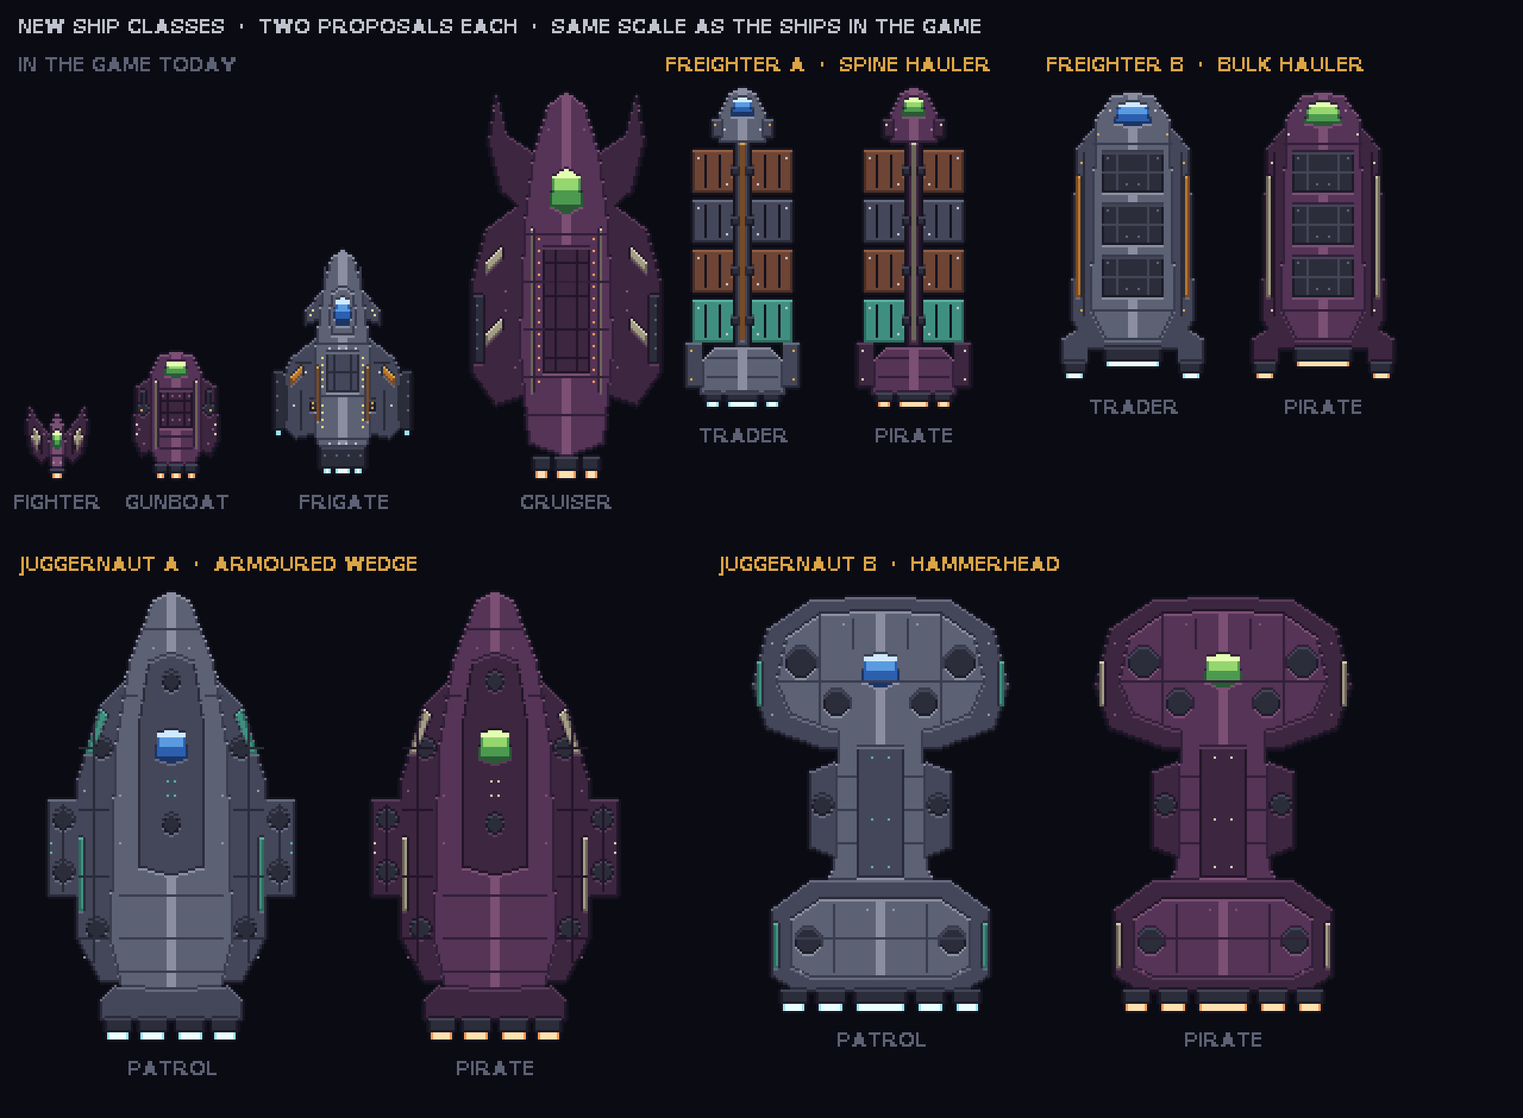
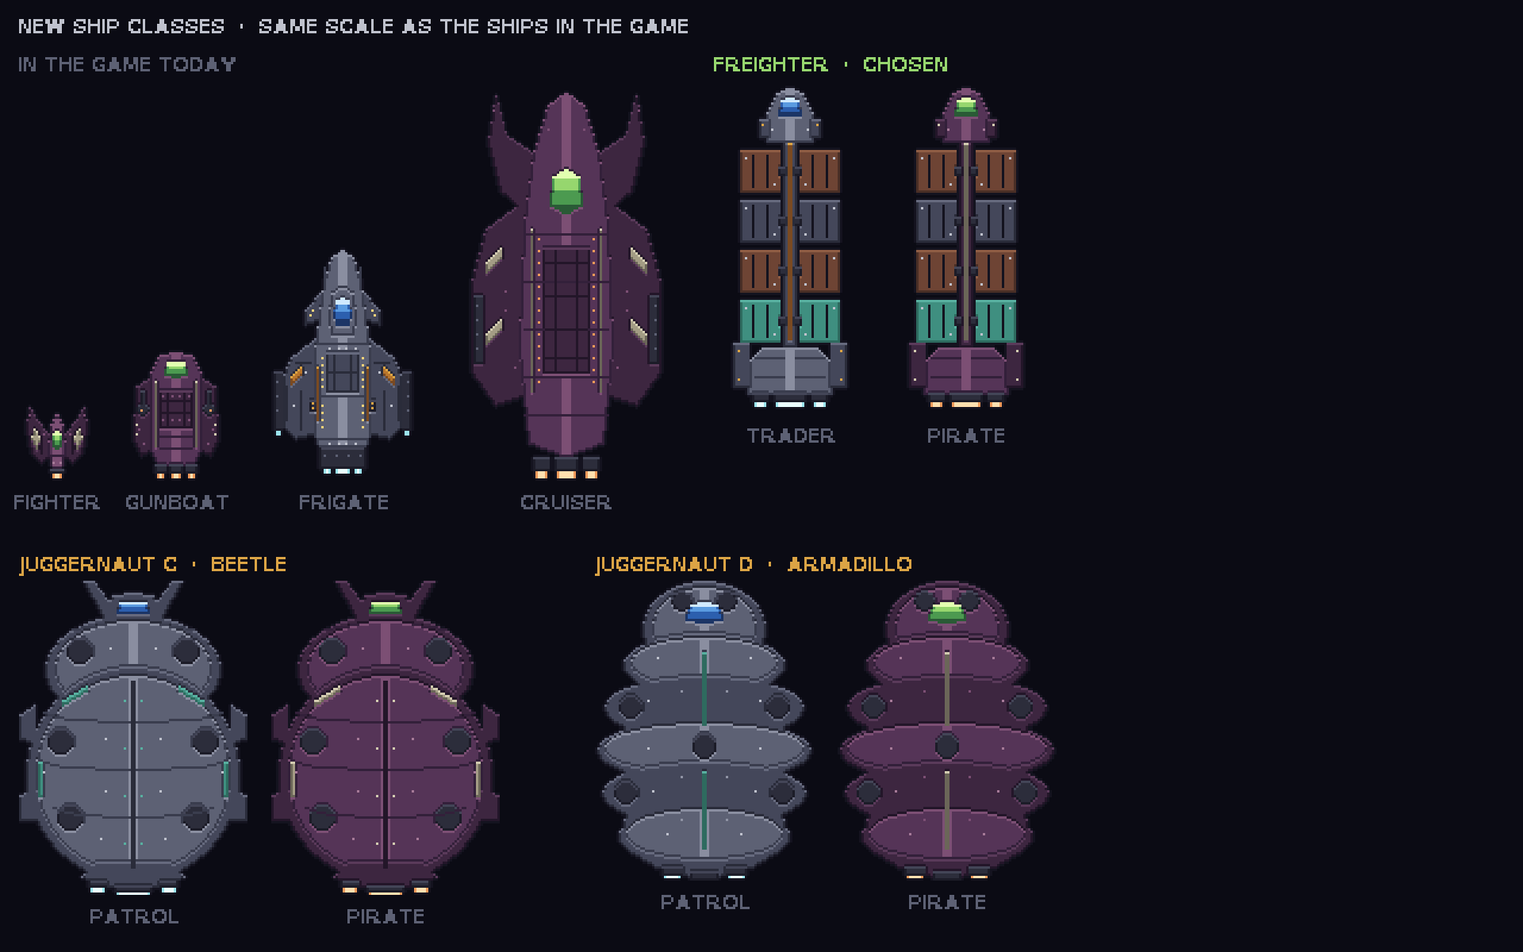
Open neutral shipyards to everyone, add beetle-shaped Juggernaut proposals and record playtest decisions
D-044: every shipyard at a trading station is open, at the same prices.
A station that owes the crew a favour still gives a discount.
D-094: the Freighter design is chosen. Two rounder Juggernaut proposals,
smaller than the Cruiser, replace the earlier ones on the design sheet.
BACKLOG and HANDOFF hold the new items and decisions (D-095 to D-104,
F-035, F-079, B-092, F-090, D-045, D-052, D-072, D-073, D-074, D-089).

Claude-Session: https://claude.ai/code/session_019KYzr9o25siTo4kX1Z2A88

diff --git a/docs/design/index.html b/docs/design/index.html
@@ -237,15 +237,15 @@ ul{margin:0;padding-left:1.2em;display:flex;flex-direction:column;gap:8px;max-wi
 </section>
 
 <section>
-  <h2>Nya skeppsklasser: förslag</h2>
+  <h2>Nya skeppsklasser</h2>
   <figure>
-    <div class="screen"><img src="img/new-ships.png" width="1920" height="1410" alt="Förslag på två nya skeppsklasser i samma skala som skeppen i spelet. Freighter A är en smal ryggrad med fyra rader containrar och ett litet förarhus i fören. Freighter B är ett brett skrov med lastluckor på ryggen. Juggernaut A är en lång bepansrad kil med kanondäck på sidorna. Juggernaut B har ett brett hammarhuvud med de tyngsta kanonerna, en smal midja och en bred motordel. Varje förslag visas i två färgsättningar."></div>
+    <div class="screen"><img src="img/new-ships.png" width="1920" height="1200" alt="Två nya skeppsklasser i samma skala som skeppen i spelet. Freightern är en smal ryggrad med fyra rader containrar och ett litet förarhus i fören. Juggernauten visas i två förslag: C är en rund skalbagge med kluvet ryggskal, bred nacksköld och två horn, och D är ett bältdjur med fem överlappande pansarband. Varje skepp visas i två färgsättningar."></div>
   </figure>
   <ul>
-    <li>Freighter är ett långsamt lastskepp. Förslag A bär containrar på en ryggrad, förslag B har lasten i skrovet.</li>
-    <li>Juggernaut är ett sällsynt, långsamt och tungt bestyckat krigsskepp. Båda förslagen är större än Cruisern.</li>
+    <li>Freighter är ett långsamt lastskepp som bär containrar på en ryggrad. Designen är vald.</li>
+    <li>Juggernaut är ett sällsynt, långsamt och tungt bestyckat krigsskepp, rundat som en bepansrad skalbagge och mindre än Cruisern. Två förslag väntar på val.</li>
     <li>Färgerna visar vem som flyger skeppet: grått med ockra för handelsskepp, grått med turkos för patruller och plommon för pirater.</li>
-    <li>Inget av detta är inlagt i spelet än. Ett förslag per klass väljs först.</li>
+    <li>Inget av detta är inlagt i spelet än.</li>
   </ul>
 </section>
 

diff --git a/tests/sim.test.js b/tests/sim.test.js
@@ -940,7 +940,7 @@ test('three misses on a cargo pod set off an alarm that brings pirates', () => {
   assert.ok(s.vessels.length > 0, 'and pirates are on their way');
 });
 
-test('a station under attack calls for help, and a neutral one repays it with a discount and its shipyard', () => {
+test('a station under attack calls for help, and a neutral one repays it with a discount', () => {
   const s = quiet(createState(1));
   s.sector = 0;
   s.charts.push(1);
@@ -952,8 +952,9 @@ test('a station under attack calls for help, and a neutral one repays it with a 
   assert.ok(st.shipyard, 'this neutral station has a shipyard');
   atStation(s, st);
   s.credits = 1000;
-  step(s, { shop: [{ action: 'buy', item: 'armor' }] }, DT);
-  assert.equal(s.ship.mods.armor, undefined, 'closed to strangers');
+  step(s, { shop: [{ action: 'buy', item: 'emit' }] }, DT);
+  assert.equal(s.ship.mods.emit, 1, 'a neutral shipyard is open to anyone who pays');
+  assert.equal(s.credits, 1000 - CATALOG.emit.price, 'at the full price');
   s.ship.docked = null;
   s.ship.x = st.x + 2500;
   s.ship.y = st.y;
@@ -976,7 +977,7 @@ test('a station under attack calls for help, and a neutral one repays it with a 
   atStation(s, st);
   const before = s.credits;
   step(s, { shop: [{ action: 'buy', item: 'armor' }] }, DT);
-  assert.equal(s.ship.mods.armor, 1, 'the shipyard is open now');
+  assert.equal(s.ship.mods.armor, 1);
   assert.equal(before - s.credits, Math.round(CATALOG.armor.price * B.FAVOR_DISCOUNT), 'at a discount');
   run(s, {}, B.FAVOR_TIME + 1);
   assert.equal(st.favor, 0, 'the favour runs out');

diff --git a/src/sim/stations.js b/src/sim/stations.js
@@ -59,8 +59,8 @@ export function takeOver(state, st) {
 }
 
 // ---------- trade ----------
-// A neutral shipyard only works for crews it owes a favour. Friendly yards are always open.
-export const yardOpen = (st) => st.shipyard && (st.align === 'friendly' || st.favor > 0);
+// Every shipyard at a trading station is open. A station that owes the crew a favour gives a discount.
+export const yardOpen = (st) => st.shipyard;
 export const discount = (st) => (st.favor > 0 ? B.FAVOR_DISCOUNT : 1);
 
 // What each service costs right now, and how much of it the ship needs. Used by the shop screen too.
@@ -125,8 +125,7 @@ function shop(state, st, order) {
   if (order.action === 'buy') {
     // Boarding gear is sold at any trading station. Everything else needs an open shipyard.
     if (CATALOG[order.item] && CATALOG[order.item].tab !== 'armory') {
-      if (!st.shipyard) return refuse(state, 'NO SHIPYARD HERE');
-      if (!yardOpen(st)) return refuse(state, 'THE SHIPYARD IS CLOSED TO STRANGERS');
+      if (!yardOpen(st)) return refuse(state, 'NO SHIPYARD HERE');
     }
     buyUpgrade(state, order.item, discount(st));
     return;

diff --git a/src/render/shop.js b/src/render/shop.js
@@ -147,11 +147,7 @@ export function drawShop(ctx, font, state, st, tab, mouse) {
   }
   rect(ctx, PX + 12, PY + PH - 28, PW - 24, 1, COL.line);
   const closed = tab !== 'armory' && !yardOpen(st);
-  const note = closed
-    ? st.shipyard
-      ? 'THIS SHIPYARD ONLY WORKS FOR CREWS IT OWES  ·  ANSWER ITS DISTRESS CALL'
-      : 'NO SHIPYARD AT THIS STATION  ·  THE ARMORY IS OPEN'
-    : null;
+  const note = closed ? 'NO SHIPYARD AT THIS STATION  ·  THE ARMORY IS OPEN' : null;
   font.draw(
     ctx,
     note || (hover && hover.desc) || 'CLICK TO BUY  ·  F TO LEAVE THE PANEL  ·  E UNDOCKS FROM THE CAPTAIN POST',

diff --git a/src/events.js b/src/events.js
@@ -36,7 +36,7 @@ const TOAST = {
   codeChanged: () => ['THE STATION CODE CHANGED', WARM],
   distress: (e) => [`DISTRESS CALL FROM ${e.name}`, LOOT],
   distressSaved: (e) => [
-    e.favor ? `${e.name} OWES YOU  ·  DISCOUNT AND SHIPYARD FOR A WHILE` : `${e.name} IS SAFE  ·  +${e.reward} CREDITS`,
+    e.favor ? `${e.name} OWES YOU  ·  DISCOUNT FOR A WHILE` : `${e.name} IS SAFE  ·  +${e.reward} CREDITS`,
     GOOD,
   ],
   distressOver: (e) => [`${e.name} WAS RAIDED`, COL.dim],

diff --git a/docs/design/tools/ships2.py b/docs/design/tools/ships2.py
@@ -1,7 +1,9 @@
-"""Design sheet for the new ship classes: the Freighter and the Juggernaut, two proposals each.
+"""Design sheet for the new ship classes: the Freighter and the Juggernaut.
+
+Earlier proposals that were not chosen are kept as functions here, but are not shown on the sheet.
 
 Usage: python3 ships2.py   (writes ../img/new-ships.png; needs Pillow and DejaVu Sans Bold)
-All ships point up. Each proposal is drawn in the colours of the sides that would fly it.
+All ships point up. Each ship is drawn in the colours of the sides that would fly it.
 """
 import os
 from PIL import Image, ImageDraw
@@ -130,37 +132,85 @@ def juggernaut_b(c):
     return S.sprite(w, h, parts, ramps(c), det)
 
 
+def juggernaut_c(c):
+    """Beetle: a domed shell split down the middle, a broad neck shield, and two horns over a small head."""
+    w, h, m = 96, 132, 48
+    parts = [
+        (2, 'p', [(m - 13, 14), (m - 21, 0), (m - 17, 0), (m - 8, 12)]),                       # horns
+        (2, 'p', [(m, 4), (m - 9, 6), (m - 13, 14), (m - 10, 20), (m, 20)]),                   # head
+        (4, 'p', [(m, 8), (m - 6, 9), (m - 7, 14), (m, 16)]),                                  # bridge glass
+        (2, 'e', [m - 37, 14, m + 37, 60]), (1, 'e', [m - 33, 17, m + 33, 56]),                # neck shield
+        (2, 'p', [(m - 42, 52), (m - 48, 56), (m - 48, 66), (m - 42, 68)]),                    # side fins
+        (2, 'p', [(m - 42, 86), (m - 48, 90), (m - 48, 100), (m - 42, 100)]),
+        (2, 'e', [m - 45, 36, m + 45, 126]), (1, 'e', [m - 41, 40, m + 41, 122]),              # shell
+        (2, 'p', [(m, 118), (m - 16, 118), (m - 22, 124), (m - 14, 128), (m, 128)]),           # tail and engines
+        (5, 'r', [m - 19, 126, m - 12, 128]), (5, 'r', [m - 8, 128, m, 130]),
+        (6, 'r', [m - 18, 129, m - 13, 130]), (6, 'r', [m - 7, 131, m, 131]),
+        (5, 'e', [m - 28, 24, m - 18, 34]), (5, 'e', [m - 36, 62, m - 26, 72]), (5, 'e', [m - 32, 94, m - 22, 104]),   # guns
+        (3, 'p', [(m - 20, 44), (m - 30, 50), (m - 30, 52), (m - 20, 46)]),                    # accent marks
+        (3, 'r', [m - 40, 76, m - 39, 90]),
+    ]
+
+    def det(px, ln):
+        ln((m - 1, 42), (m - 1, 120), c['hull2'][0])                                           # the split down the back
+        for y, half in ((58, 38), (78, 40), (98, 34)):                                         # plate seams, curved
+            ln((m - half, y - 3), (m - half + 10, y), c['hull'][0]); ln((m - half + 10, y), (m - 2, y + 1), c['hull'][0])
+        ln((m - 26, 20), (m - 12, 18), c['hull'][0])
+        px([(m - 10, 28), (m - 12, 66), (m - 12, 88), (m - 14, 108), (m - 38, 80)], c['hull'][3])
+        px([(m - 4, 50), (m - 4, 70), (m - 4, 90), (m - 4, 110)], c['accent'][2])
+    return S.sprite(w, h, parts, ramps(c), det)
+
+
+def juggernaut_d(c):
+    """Armadillo: overlapping armour bands from a blunt head to a rounded tail, with guns between the bands."""
+    w, h, m = 92, 126, 46
+    parts = [
+        (2, 'e', [m - 26, 0, m + 26, 40]), (1, 'e', [m - 22, 3, m + 22, 36]),                  # blunt head
+        (4, 'p', [(m, 8), (m - 7, 10), (m - 8, 16), (m, 18)]),                                 # bridge glass
+        (2, 'e', [m - 34, 82, m + 34, 124]),                                                   # rounded tail
+        (5, 'r', [m - 18, 120, m - 10, 123]), (5, 'r', [m - 6, 122, m, 125]),                  # engines
+        (6, 'r', [m - 17, 124, m - 11, 124]), (6, 'r', [m - 5, 126, m, 126]),
+    ]
+    # Five bands, each a little wider than the gap it covers, alternating light and dark.
+    for i, (y, half) in enumerate(((22, 34), (40, 42), (58, 45), (76, 43), (94, 36))):
+        parts += [(2, 'e', [m - half, y, m + half, y + 26]), (1 if i % 2 == 0 else 2, 'e', [m - half + 3, y + 2, m + half - 3, y + 22])]
+    parts += [
+        (5, 'e', [m - 14, 4, m - 6, 12]),                                                      # guns
+        (5, 'e', [m - 36, 48, m - 27, 57]), (5, 'e', [m - 38, 84, m - 29, 93]), (5, 'e', [m - 5, 64, m + 5, 74]),
+        (3, 'r', [m - 1, 30, m, 60]), (3, 'r', [m - 1, 80, m, 112]),                           # accent line down the back
+    ]
+
+    def det(px, ln):
+        px([(m - 20, 32), (m - 24, 50), (m - 24, 70), (m - 22, 88), (m - 16, 106)], c['hull'][3])
+        px([(m - 10, 46), (m - 10, 82), (m - 10, 100)], c['hull2'][3])
+    return S.sprite(w, h, parts, ramps(c), det)
+
+
 SCALE = 3
 def sheet():
     game = os.path.join(os.path.dirname(os.path.abspath(__file__)), '..', '..', '..', 'assets', 'sprites')
     known = [(n, Image.open(os.path.join(game, n + '.png')).convert('RGBA')) for n in ('fighter', 'gunboat', 'frigate', 'cruiser')]
+    chosen = ('FREIGHTER  ·  CHOSEN', [('TRADER', freighter_a(TRADER)), ('PIRATE', freighter_a(PIRATE))])
     rows = [
-        ('FREIGHTER A  ·  SPINE HAULER', [('TRADER', freighter_a(TRADER)), ('PIRATE', freighter_a(PIRATE))]),
-        ('FREIGHTER B  ·  BULK HAULER', [('TRADER', freighter_b(TRADER)), ('PIRATE', freighter_b(PIRATE))]),
-        ('JUGGERNAUT A  ·  ARMOURED WEDGE', [('PATROL', juggernaut_a(PATROL)), ('PIRATE', juggernaut_a(PIRATE))]),
-        ('JUGGERNAUT B  ·  HAMMERHEAD', [('PATROL', juggernaut_b(PATROL)), ('PIRATE', juggernaut_b(PIRATE))]),
+        ('JUGGERNAUT C  ·  BEETLE', [('PATROL', juggernaut_c(PATROL)), ('PIRATE', juggernaut_c(PIRATE))]),
+        ('JUGGERNAUT D  ·  ARMADILLO', [('PATROL', juggernaut_d(PATROL)), ('PIRATE', juggernaut_d(PIRATE))]),
     ]
-    W, H = 640, 470
+    W, H = 640, 400
     im = Image.new('RGBA', (W, H), S.rgb(S.BG) + (255,)); d = ImageDraw.Draw(im)
-    S.txt(d, 8, 6, 'NEW SHIP CLASSES  ·  TWO PROPOSALS EACH  ·  SAME SCALE AS THE SHIPS IN THE GAME', S.STEEL[3])
+    S.txt(d, 8, 6, 'NEW SHIP CLASSES  ·  SAME SCALE AS THE SHIPS IN THE GAME', S.STEEL[3])
+    def place(x, y, title, variants, color):
+        S.txt(d, x, y, title, color)
+        for label, sp in variants:
+            im.alpha_composite(sp, (x, y + 12)); S.txt(d, x + sp.width // 2, y + 16 + sp.height, label, S.STEEL[1], 'c'); x += sp.width + 10
+        return x
     # The ships already in the game, for size.
     x = 8
     S.txt(d, x, 22, 'IN THE GAME TODAY', S.STEEL[1])
     for name, sp in known:
         im.alpha_composite(sp, (x, 34 + 168 - sp.height)); S.txt(d, x + sp.width // 2, 34 + 172, name.upper(), S.STEEL[1], 'c'); x += sp.width + 10
-    # The proposals: freighters on the top half, juggernauts below.
-    x = 280
-    for title, variants in rows[:2]:
-        S.txt(d, x, 22, title, S.OCHRE[2])
-        for label, sp in variants:
-            im.alpha_composite(sp, (x, 34)); S.txt(d, x + sp.width // 2, 34 + sp.height + 4, label, S.STEEL[1], 'c'); x += sp.width + 8
-        x += 16
-    x = 8
-    for title, variants in rows[2:]:
-        S.txt(d, x, 232, title, S.OCHRE[2])
-        for label, sp in variants:
-            im.alpha_composite(sp, (x, 244)); S.txt(d, x + sp.width // 2, 244 + sp.height + 4, label, S.STEEL[1], 'c'); x += sp.width + 8
-        x += 22
+    place(300, 22, *chosen, S.ACID[2])
+    x = place(8, 232, *rows[0], S.OCHRE[2])
+    place(x + 30, 232, *rows[1], S.OCHRE[2])
     out = im.resize((W * SCALE, H * SCALE), Image.NEAREST)
     out.save(os.path.join(S.OUT_DIR, 'new-ships.png'), optimize=True)
     return out

diff --git a/HANDOFF.md b/HANDOFF.md
@@ -97,7 +97,7 @@ Poster
 - Den som går in för att loota lämnar sin post ledig för någon annan och får tillbaka den när den är ombord igen.
 - Första versionen har alla tre posterna och fritt byte mellan dem.
 - En post som lämnas fortsätter som den ställdes in. Gasen ligger därför kvar när Captain lämnar sin post, så att en ensam spelare kan flyga och skjuta.
-- Agentens val som användaren inte har sett än (2026-11-14): en post kan bara hållas av en spelare i taget. Två spelare byter post genom att be om varandras poster inom några sekunder. Den som kommer tillbaka från en bordning får sin gamla post om den är ledig, annars en annan ledig post.
+- En post kan bara hållas av en spelare i taget. Två spelare byter post genom att be om varandras poster inom några sekunder. Den som kommer tillbaka från en bordning får sin gamla post om den är ledig, annars en annan ledig post. Godkänt av användaren 2026-11-14, så länge det går att göra intuitivt utan att kladda ner UI.
 
 Värld
 - Sektorer som nås med stjärnkartor som hittas eller köps. Hopp kostar bränsle.
@@ -105,7 +105,9 @@ Värld
 - Fri sikt i rymden. Fog of war finns bara på kartan. Stillastående objekt ligger kvar som senast kända läge, skepp syns bara medan de ses.
 - Stationer är vänliga, neutrala eller fientliga. Gratis tankning hos vänliga, betalning hos neutrala.
 - Skeppet kan bara byggas om vid en station med shipyard.
-- En vänlig eller neutral station som anfalls kan sända nödanrop. En neutral station som får hjälp förblir neutral men ger rabatt och tillgång till sin shipyard under en tid.
+- En vänlig eller neutral station som anfalls kan sända nödanrop. En neutral station som får hjälp förblir neutral men ger rabatt under en tid.
+- Neutrala shipyards är alltid öppna mot betalning, till samma priser som hos vänliga så länge spelet testas (D-044, 2026-11-14).
+- En station som inte överlever ett anfall ska bli fientlig (D-045, 2026-11-14, inte byggt än).
 - Pirater är fristående och aggressiva mot alla.
 - Faktioner ska in (F-035, tillbaka från parkerat 2026-11-14).
 - Värme blir en andra resurs bredvid energi, med uppgraderingar som kyler bättre (F-084, 2026-11-14).
@@ -140,9 +142,9 @@ Stationer, vapen och sektorer, agentens val som användaren inte har sett än (2
 - Spelet är vunnet när Cruisern i The Maw är förstörd. Det går att flyga vidare efteråt.
 
 Nödanrop, lås och utrustning, agentens val som användaren inte har sett än (2026-11-14)
-- Ett neutralt shipyard är bara öppet för den som stationen står i skuld till, alltså en stund efter ett besvarat nödanrop. Det är agentens läsning av användarens ord "får nyttja shipyard under denna tid om en sådan finns" (se D-044). Vänliga och övertagna stationer har alltid öppet.
-- Ett besvarat nödanrop ger 40 procent rabatt och öppet shipyard i tre minuter hos en neutral station. En vänlig station betalar 100 krediter.
-- Ett nödanrop som ingen svarar på får inga följder. Piraterna ger sig av (se D-045).
+- Ett neutralt shipyard var först bara öppet efter ett besvarat nödanrop. Det ändrades 2026-11-14, se Värld.
+- Ett besvarat nödanrop ger 40 procent rabatt i tre minuter hos en neutral station. En vänlig station betalar 100 krediter.
+- Ett nödanrop som ingen svarar på får i dag inga följder. Piraterna ger sig av. Det ska ändras, se D-045.
 - Nödanropet visar var stationen ligger, även om den inte är hittad.
 - Stationslåset är en kod som bara syns på Engineer-skärmen och som byts var sextonde sekund. Ensam får man växla mellan låset och Engineer-posten.
 - Fraktcontainrar (cargo pods) har ingen insida. När låset är uppe tas lasten direkt ombord och containern försvinner.
@@ -168,12 +170,30 @@ Karta, agentens val som användaren inte har sett än (2026-11-14)
 - Pilarna i skärmkanten visar bara pirater inom sikt och vrak som redan hittats.
 - Kartan öppnas med M av vem som helst. Verktygen används från Engineer-posten.
 
+Faktioner, platshållare som ska ses över i D-095 (2026-11-14)
+- Tre faktioner. Man börjar som neutral hos alla. Piraterna står utanför.
+- THE CHARTER: ett handelsförbund med rika stationer och bra priser. Betalar för frakt och eskort.
+- THE WARDENS: en ordningsmakt som patrullerar med tunga skepp och har de bästa varven. Skannar efter smuggelgods.
+- THE DRIFTERS: fria bärgare och nybyggare i utkanten. Billiga reparationer, köper allt och bryr sig inte om smuggelgods.
+- Dåligt anseende ger först högre priser, sedan stängda stationer, sedan patruller som anfaller. Det ska alltid gå att höja ett lågt anseende.
+
+Sparande, uppdrag och omgångar (2026-11-14)
+- En autosparfil vid dockning och fem manuella platser. Vid död laddas senaste sparfilen om. Hardcore mode med ett liv är en egen punkt (F-096).
+- Varje omgång ska vara genererad: systemen, en röd tråd av berättelse och frivilliga sidouppdrag. Kartans storlek väljs vid start. Ingen färdigskriven story från början till slut.
+- Uppdrag: alla sorter, högst fem samtidigt för stunden. Vissa har tidsgräns och betalar mer.
+- Det får aldrig gå att låsa sig, till exempel utan pengar eller bränsle (D-100).
+- Små stationer har en våning, större har två. Samma gäller för fientliga.
+- Mobil är viktigt (F-090).
+- Onlineläget: spelare ansluter med rumskod eller länk. Motorns gränser är inte kända än.
+
 Skepp och uppgraderingar
 - Spelarskeppet är alltid samma fregatt. Uppgraderingar syns på skrovet.
 - Två sorters slots: hardpoints och system slots. Båda kan köpas eller hittas som loot.
 - Fighter bay är en uppgradering. Darts är den minsta skeppsklassen.
 - Skeppsklasser: Dart, Fighter, Interceptor, Gunboat, Frigate, Cruiser.
 - Två nya skeppsklasser ska in: Freighter, lite större och långsam (F-069), och Juggernaut, ett ovanligt krigsskepp som är långsamt och tungt bestyckat (F-070). Juggernaut patrullerar hos faktioner och dyker i mycket sällsynta fall upp som pirat (2026-11-14).
+- Freighterns design är vald: en ryggrad med containrar, förslag A. Juggernauten ska ha en rundare form som en bepansrad skalbagge och vara mindre än Cruisern. Två förslag väntar på val (D-094, 2026-11-14).
+- Stationernas storlek är godkänd. Stora baser med två våningar blir 1,5 gånger större, med annan design, mer vapen och starkare sköld (F-103, 2026-11-14).
 - Nya skepp designas och visas för användaren innan de läggs in i spelet (2026-11-14). Förslagen ritas av `docs/design/tools/ships2.py`.
 
 Grafik
@@ -183,7 +203,7 @@ Grafik
 
 ## Miljö och begränsningar
 
-- 2026-11-14: Skarpare text och fönsterfyllnad (F-077, F-078) är bara provade i en automatisk webbläsare i tre fönsterstorlekar, inte på en riktig skärm. På en full-HD-skärm ritas bilden i 2560 × 1440 och krymps, vilket kostar mer grafikkraft än förut. Om det hackar: sänk `MAX_SCALE` i `src/main.js`.
+- 2026-11-14: Skarpare text och fönsterfyllnad (F-077, F-078) flyter på användarens dator. De är i övrigt bara provade i en automatisk webbläsare i tre fönsterstorlekar. På en full-HD-skärm ritas bilden i 2560 × 1440 och krymps, vilket kostar mer grafikkraft än förut. Om det hackar: sänk `MAX_SCALE` i `src/main.js`.
 
 - 2026-11-14: Agenten kan klona och pusha via git. GitHub-verktygen (gh och GitHub-kopplingen) fungerade inte i sessionen, så agenten kunde inte läsa eller ändra repoinställningar, till exempel GitHub Pages.
 - 2026-11-14, senare session: GitHub-kopplingen fungerar för att läsa pull requests och issues. Kommandot gh finns inte. Sessionen fick bara pusha till sin egen gren (claude/), inte direkt till main. Därför finns nu automatisk merge, se Engångsåtgärder.
@@ -216,7 +236,7 @@ Genomgång 2026-11-14 (D-033). Agenten är ingen jurist, och inget här är juri
 - Spelet och designsidan laddar inget från andra tjänster. Det kontrolleras med `node tests/outside.mjs`.
 - Designsidan laddade tidigare typsnitt från Google Fonts. De är borttagna och sidan använder systemets typsnitt.
 - Spelet hanterar inga personuppgifter: inga namn, konton eller formulär.
-- Spelet sparar en enda sak i webbläsaren: om ljudet är av eller på (`critical-muted`), och bara efter att spelaren själv tryckt N. Inga kakor. Regeln som kan beröras är lagen om elektronisk kommunikation, 9 kap. 28 §, om lagring i användarens utrustning. Lagring som behövs för något användaren själv har bett om brukar vara undantagen från samtycke. Agentens rekommendation är att behålla sparandet. Användaren har inte tagit ställning än.
+- Spelet sparar en enda sak i webbläsaren: om ljudet är av eller på (`critical-muted`), och bara efter att spelaren själv tryckt N. Inga kakor. Regeln som kan beröras är lagen om elektronisk kommunikation, 9 kap. 28 §, om lagring i användarens utrustning. Lagring som behövs för något användaren själv har bett om brukar vara undantagen från samtycke. Användaren bedömer att det är okej (2026-11-14).
 - Webbhotellet GitHub Pages får besökarnas IP-adresser, vilket följer av att sidan ligger där.
-- Sparade omgångar (F-079) blir ny lagring i webbläsaren. Den görs på spelarens egen begäran och innehåller inga personuppgifter, så samma bedömning som för ljudinställningen bör gälla. Agentens rekommendation: spara först när spelaren själv väljer det, och säg det på startskärmen. Användaren har inte tagit ställning än.
+- Sparade omgångar (F-079) blir ny lagring i webbläsaren. Den görs på spelarens egen begäran och innehåller inga personuppgifter, så samma bedömning som för ljudinställningen bör gälla. Användaren bedömer att det är okej (2026-11-14).
 - Ny genomgång behövs när onlineläget byggs (D-046): spelarnamn, anslutningar och Cloudflare som ny tjänst.
